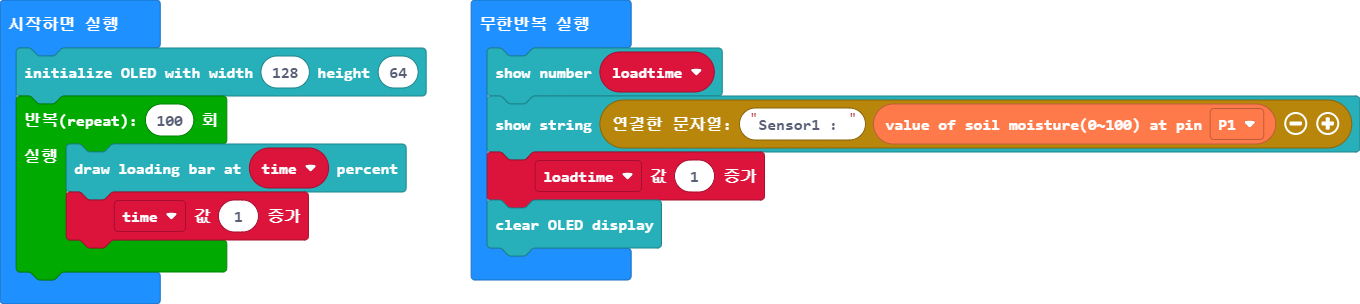
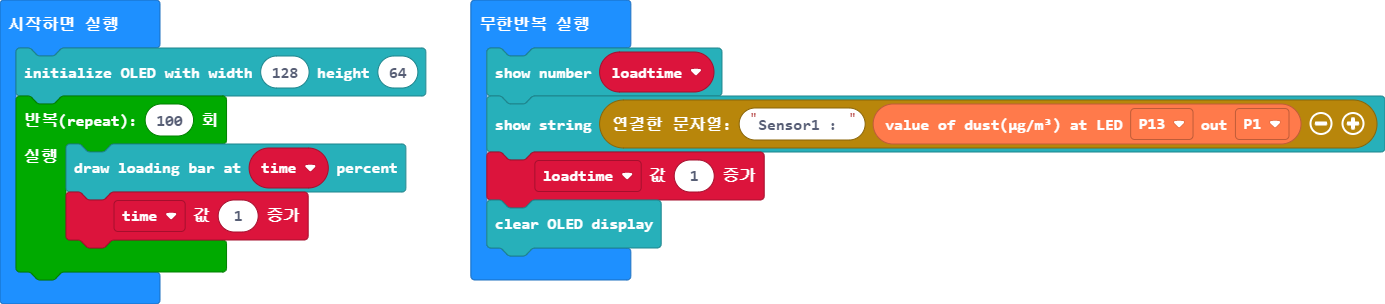
main.blocks, main.ts 업데이트하기

diff --git a/main.ts b/main.ts
@@ -7,7 +7,7 @@ for (let index = 0; index < 100; index++) {
 }
 basic.forever(function () {
     OLED.writeNumNewLine(loadtime)
-    OLED.writeStringNewLine("Sensor1 : " + Environment.ReadSoilHumidity(AnalogPin.P1))
+    OLED.writeStringNewLine("Sensor1 : " + Environment.ReadDust(DigitalPin.P13, AnalogPin.P1))
     loadtime += 1
     OLED.clear()
 })
